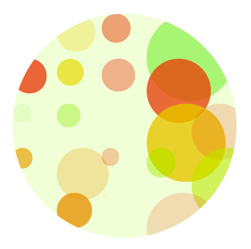
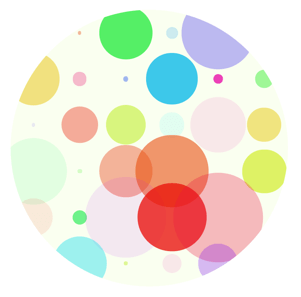
update code samples

diff --git a/samples/circles.html b/samples/circles.html
@@ -12,19 +12,22 @@
 </head>
 <body>
   <div>
-    <css-doodle grid="5">
-      :host {
+    <css-doodle grid="6">
+      :doodle {
         width: 50vh;
         height: 50vh;
         border-radius: 50%;
         overflow: hidden;
-        background: #f1ffd9;
+        background: #fafff1;
       }
+
       --size: @rand(200%);
       width: var(--size);
       height: var(--size);
-      background: hsla(@rand(100), 80%, 50%, @rand(.8));
       border-radius: 50%;
+      background: hsla(
+        @rand(360), 80%, 50%, @rand(.8)
+      );
     </css-doodle>
   </div>
 </body>

diff --git a/README.md b/README.md
@@ -4,28 +4,33 @@ A web component for drawing patterns with css.
 
 ![circles](screenshot/circles.png)
 
+## Example
+
+include [css-doodle.js](css-doodle.js) in your html:
+
 ```html
-<css-doodle grid="5">
+<script src="./css-doodle.js"></script>
+```
+
+drawing the above circles with css:
+
+```html
+<css-doodle grid="6">
   :doodle {
+    width: 50vh;
+    height: 50vh;
     border-radius: 50%;
     overflow: hidden;
-    background: #f1ffd9;
+    background: #fafff1;
   }
 
   --size: @rand(200%);
   width: var(--size);
   height: var(--size);
   border-radius: 50%;
-  background-color: hsla(
-    @rand(100), 80%, 50%, @rand(.8)
+  background: hsla(
+    @rand(360), 80%, 50%, @rand(.8)
   );
 </css-doodle>
 ```
 
-## Usage
-
-include css-doodle.js in your html:
-
-```
-<script src="./css-doodle.js"></script>
-```
